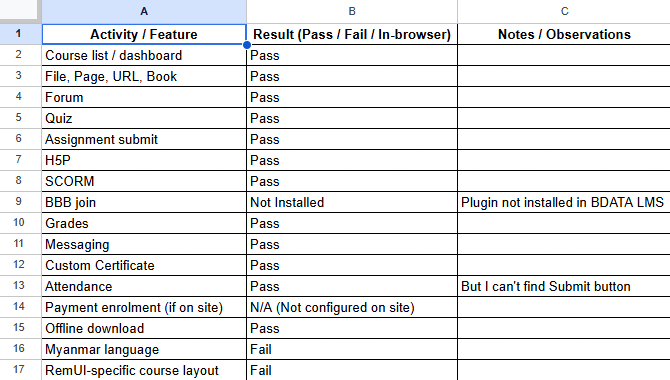
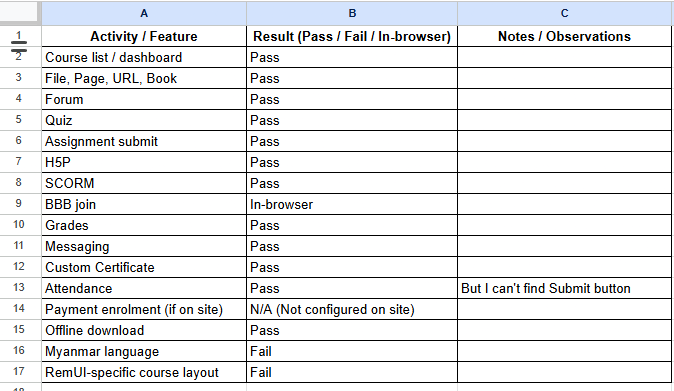
Security & Docs: Untrack google-services.json/plist with templates and update T18 BBB join pass status

Changed region(s): [[0.0, 0.0, 1.0, 1.0]]

diff --git a/mobile-practice/T18/evidence.md b/mobile-practice/T18/evidence.md
@@ -25,7 +25,7 @@ Test and evaluate what core Moodle activities and custom plugins work natively i
 | **Assignment submit** | Native (Pass) | Submission status, deadlines, and file upload interface render natively. |
 | **H5P** | Native (Pass) | Core H5P interactive content runs within integrated app player. |
 | **SCORM** | In-browser / IAB (Pass) | SCORM packages require In-App Browser (IAB) execution due to legacy web runtime dependencies. |
-| **BBB join** | In-browser (Fallback) | BigBlueButton virtual classroom sessions launch in external/system browser. |
+| **BBB join** | In-browser (Pass) | BigBlueButton virtual classroom sessions launch in external/in-app browser with auto-login. |
 | **Grades** | Native (Pass) | Gradebook user report and course totals displayed natively. |
 | **Messaging** | Native (Pass) | In-app messaging, contact search, and instant communication render natively. |
 | **CustomCertificate** | In-browser (Pass) | Certificate generation and PDF download trigger browser/document viewer. |
